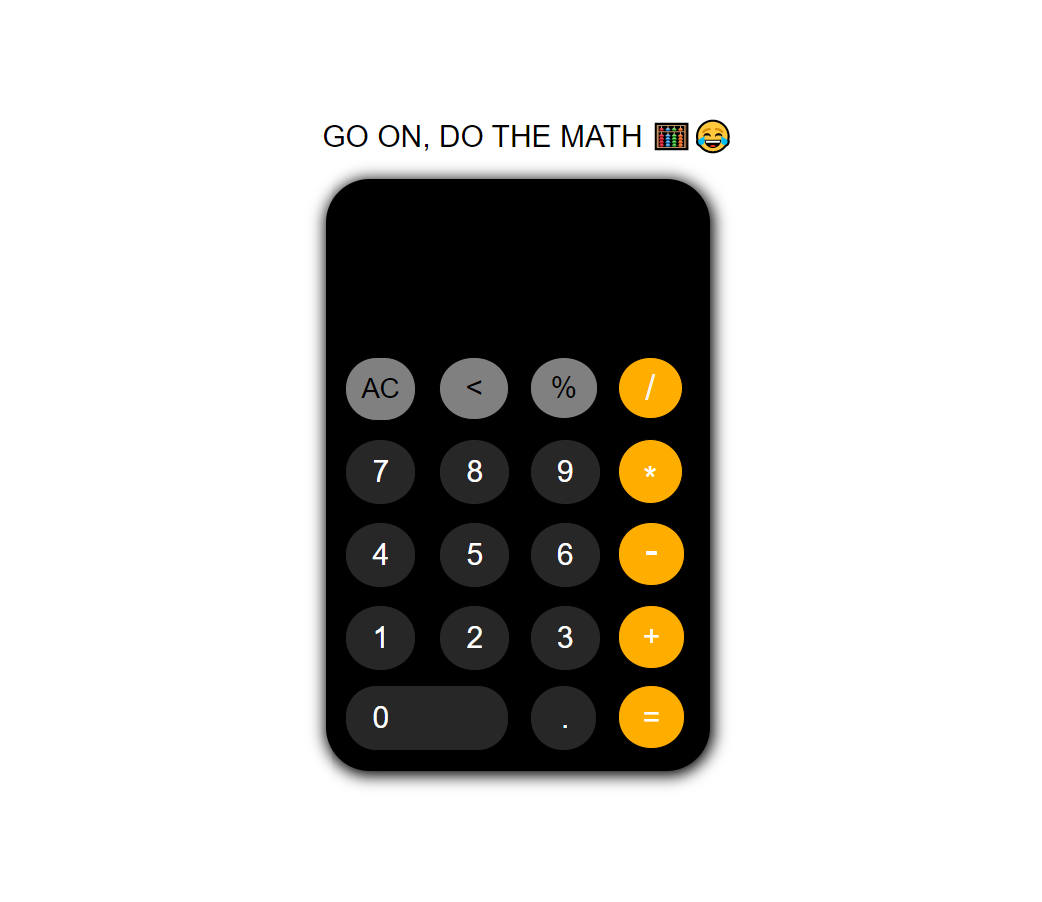
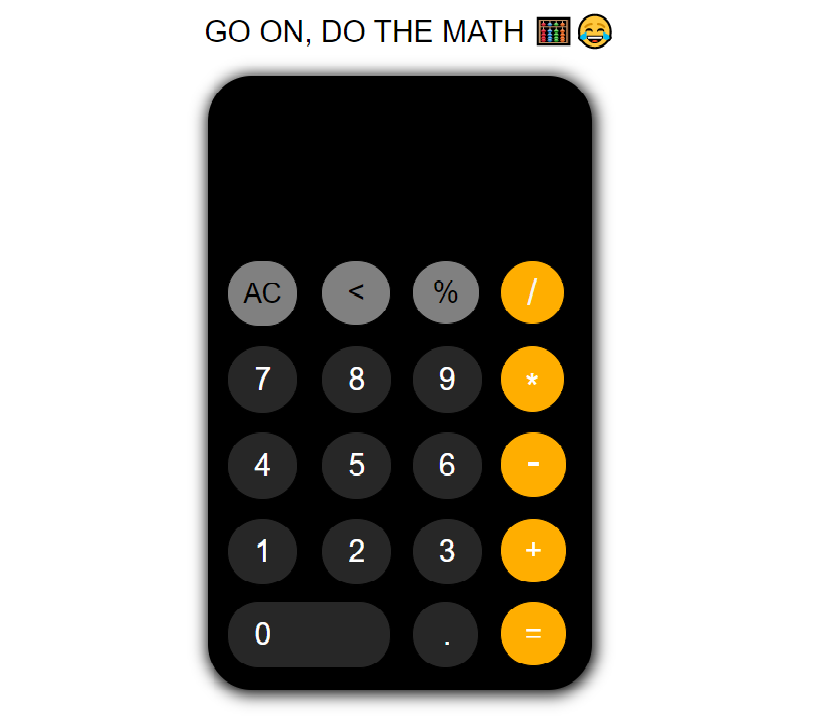
Carousel done 50%

Changed region(s): [[0.2454, 0.0, 0.7669, 0.967]]

diff --git a/style.css b/style.css
@@ -4,6 +4,8 @@
 ::after{
     box-sizing: border-box;
     scroll-behavior: smooth;
+    cursor: default;
+    /* zoom: 99%; */
 }
 img
 {
@@ -21,24 +23,24 @@ body{
     color: white;
     font-family: 'Montserrat', sans-serif;
 }
-.scroll_container
+/* .scroll_container
 {
     display: flex;
     flex-direction: row;
-    flex-wrap: nowrap;
+    flex-wrap: wrap;
     justify-content: flex-start;
     align-content: flex-end;
     min-height: 100vh;
     max-height: 100vh;
     min-width: 100vw;
     z-index: 0;
-}
-.pseudo_container
+} */
+/* .pseudo_container
 {
     display: flex;
     flex-direction: row;
     flex-wrap: nowrap;
-}
+} */
 .container
 {
     background-image: url('./assets/background.png');
@@ -171,11 +173,13 @@ header
     top: 12%;
     left: 50%;
     transform: translateX(-50%);    
-    min-width: 20vw;
+    min-height: 86vh;
+    max-height: 86vh;
+    min-width: 100vw;
     max-width: 100vw;
     z-index: 1;
-    border: 2px solid greenyellow;
     order: 1;
+    border: 2px solid greenyellow;
 }
 .about
 {   
@@ -183,7 +187,8 @@ header
     justify-content: center;
     align-items: center;
     flex-wrap: nowrap;
-    width: 100vw;
+    min-width: 100vw;
+    max-width: 100vw;
 }
 .about_text
 {
@@ -217,26 +222,143 @@ header
 .projects-gallery
 {
     position: absolute;
+    display: flex;
+    flex-direction: column;
+    align-items: center;
+    flex-wrap: nowrap;
     top: 12%;
     left: 150%;
-    transform: translateX(-50%);    
+    transform: translateX(-50%);
+    min-height: 86vh;
+    max-height: 86vh;
     min-width: 100vw;
     max-width: 100vw;
     z-index: 1;
     border: 2px solid purple;
+    padding: 2rem 0rem;
 }
-.flex_container
+.project_title 
 {
+    margin: 1.5rem 0rem 0rem 0rem;
+    font-weight: 400;
+    font-size: 2.7em;
+}
+.flex_container {
     display: flex;
-    justify-content: flex-end;
-    align-items: center;
-    background-repeat: no-repeat;
     flex-wrap: nowrap;
-    height: 27rem;
-    width: 15rem;
-    min-width: 20vw;
-    max-width: 100vw;
-    margin: 20px;
+    /* overflow: hidden; */
+    justify-content: center;
+    align-items: flex-start;
+    background-repeat: no-repeat;
+    height: 49vh;
+    min-width: 95vw;
+    max-width: 95vw;
     border: 2px solid red;
 }
+.carousel
+{
+    perspective: 500px;
+    transform-style: preserve-3d;
+    transform-origin: 0% 50%;
+    display: flex;
+    flex-direction: row;
+    justify-content: flex-start;
+    align-items: center;
+}
+.project_card
+{
+    display: flex;
+    flex-direction: column;
+    align-items: center;
+    height: 30rem;
+    width: 26rem;
+    border-radius: 0.25em;
+    opacity: 1 !important;
 
+}
+.project_name
+{
+    font-weight: 800;
+    letter-spacing: 0.1em;
+    font-size: 1.25rem;
+    margin: 2rem 0rem 0rem 0rem;
+}
+.link_arrow_height
+{
+    height: 0.75rem;
+    margin-left: 0.2rem;
+}
+/* .calculator:hover
+{
+    transition: all 0.2s ease;
+    color: rgb(255, 196, 0);
+    cursor: default;
+} */
+.calculator-card
+{
+    visibility: visible;
+    transform: translateX(394px) translateY(100px) translateX(0px) translateX(0px) translateZ(0px);
+}
+.b
+{
+    display: flex;
+    justify-content: center;
+    align-items: center;
+    margin: 0.7rem;
+    font-size: .7rem;
+    letter-spacing: 0.101em;
+    border-radius: 0.25em;
+    padding: 0.55rem;
+    background: transparent;
+    color: white;
+    cursor: pointer;
+}
+.calculator_button
+{
+    border: 1px solid rgb(255, 196, 0);
+}
+.b:hover
+{
+    transition: all 0.3s ease;
+    transform: scale(1.05);
+}
+.duckHunt-card
+{
+    transform: translateX(394px) translateY(100px) translateX(362px) translateZ(-200px);
+    z-index: -1;
+    opacity: 0.6;
+    visibility: visible;
+}
+.duckHunt_button
+{
+    border: 1px solid rgb(0, 174, 255);
+}
+.HypnoHour-card
+{
+    transform: translateX(394px) translateY(100px) translateX(824px) translateZ(-400px);
+    z-index: -2;
+    opacity: 0.2;
+    visibility: visible;
+}
+.hypnoHour, .znakeGame
+{
+    border: 1px solid rgb(192, 192, 192);
+}
+.znakeGame-card
+{
+    transform: translateX(394px) translateY(100px) translateX(-824px) translateZ(-400px);
+    z-index: -2;
+    opacity: 0.2;
+    visibility: visible;
+}
+.frontend-card
+{
+    transform: translateX(394px) translateY(100px) translateX(-362px) translateZ(-200px);
+    z-index: -1;
+    opacity: 0.6;
+    visibility: visible;
+}
+.devsnest
+{
+    border: 1px solid rgb(157, 114, 214);
+}
